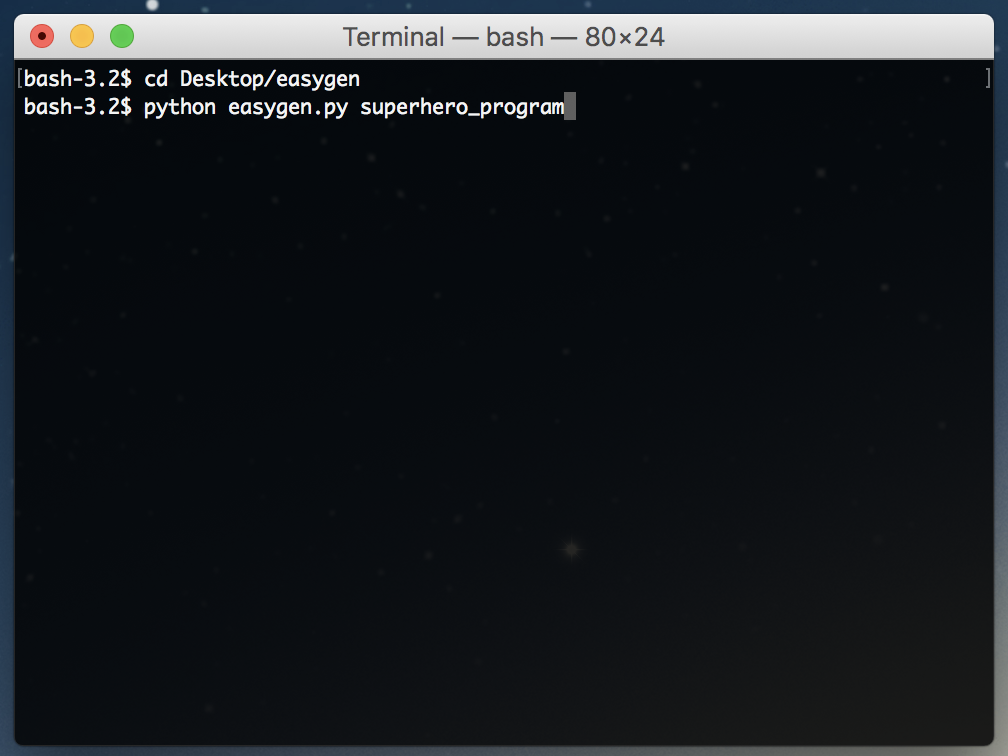
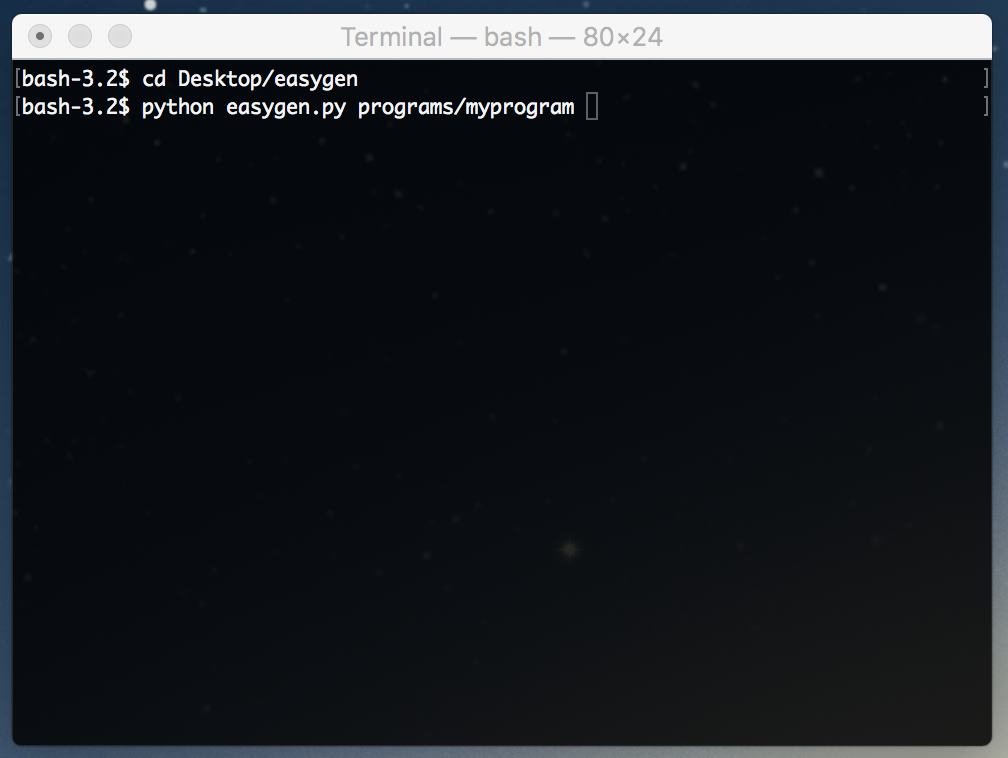
updated tutorial with easier save

Changed region(s): [[0.0, 0.0, 1.0, 1.0]]

diff --git a/editor.html b/editor.html
@@ -733,7 +733,7 @@
                //   s = s + JSON.stringify(val);
                //}
                s = "[" + s + "]";
-               alert(s);
+               //alert(s);
                var filename = prompt("Filename:", 'programs/myprogram');
                xhttp.open("POST", "http://localhost:8000?"+'file='+filename+'&program='+s, true);
                xhttp.send();

diff --git a/README.md b/README.md
@@ -96,17 +96,33 @@ If you will be pulling data from Wikipedia, you must do the following:
 
 # Tutorial
 
+First, you will need to run the easygen server. 
+
+1. Open a terminal window. Depending on your computer's operating system, this will be done in different ways. On my computer, the terminal screen looks like this:
+
+![alt text](https://raw.githubusercontent.com/markriedl/easygen/master/web/step0.png "Terminal window")
+
+2. Change directory to where you saved EasyGen
+
+   We need to change the working directory of the terminal window to the directory where you installed EasyGen. On my computer it is in the "easygen" directory on my Desktop, so I would do this `cd Desktop/easygen`. (The `cd` means change directory).
+
+3. Run the server.
+
+   Type `python easygen.py superhero_program` into the terminal and press Enter. See the image above for what it should look like when you are done.
+
+Now, you are ready to use the visual editor.
+
 ## Using the Editor
 
-First, open editor.html in a web browser. Typically you can just double-click on editor.html and it will open in your default browser.
-
-![alt text](https://raw.githubusercontent.com/markriedl/easygen/master/web/step1.png "Empty editor")
+First, open editor.html in a web browser. You will find the file in the directory where you saved EasyGen. Typically you can just double-click on editor.html and it will open in your default browser.
 
 You will see a row of numbers across the top of the browser window. Mouse over them. When you do so, they will highlight green empty boxes. These are *columns*. They are where we will put stuff. They will help us keep things organized, although it doesn't matter where things are put.
 
+![alt text](https://raw.githubusercontent.com/markriedl/easygen/master/web/step1.png "Empty editor")
+
 Right-click on the "1". You will see a menu appear. The menu items are *modules*. Modules are chunks of code that you can arrange into a program.
 
-Pick *ReadTextFile*. You will see a box appear in the first column called "ReadTextFile1". You have indicated that you want this module in your program. Click on the plus sign in the corner of the module. Now you should see that the module has gotten bigger and has some more boxes inside. Like this:
+Pick *ReadTextFile*. You will see a box appear in the first column under the "1" called "ReadTextFile1". You have indicated that you want this module in your program. Click on the plus sign in the corner of the module. Now you should see that the module has gotten bigger and has some more boxes inside. Like this:
 
 ![alt text](https://raw.githubusercontent.com/markriedl/easygen/master/web/step2.png "Editor with one module")
 
@@ -144,27 +160,16 @@ If you make a mistake and need to start over, you can just refresh the browser.
 
 ## Running EasyGen Programs
 
-Unfortunately, at this stage of development of EasyGen, I have not implemented an easy way to run programs designed in the editor. Sorry :-(
+Push the "Done" button in the editor. You will see a pop-up box that asks you for a filename. The editor is going to write the code for your program to a file. The default is "programs/myprogram". You can use this or change the name to whatever you want. Once you click "ok" a new file will be created. If you used the default, you should see that a new file has been created in the "programs" directory inside the "easygen" directory.
 
-Push the "Done" button in the editor. You will see a pop-up box with a bunch of code-like jibberish. That is a text-version of the program you just designed. It is in a special format called a "JSON" file. But that isn't important.
-
-![alt text](https://raw.githubusercontent.com/markriedl/easygen/master/web/step7.png "JSON text")
-
-Open up a text editor program. On a Mac, I use a program called "TextEdit".
-
-Cut and paste the JSON jibberish from the editor pop-up window into a blank document in your text editor. Save the text file as `superhero_program`. Be sure to save it in the EasyGen directory so it is easy to find later (note that your text editor may default to saving the file to `superhero_program.txt`. That is okay, just substitute that filename in subsequent steps in this tutorial.)
-
-Now you are going to need to open a terminal window. Depending on your computer's operating system, this will be done in different ways. On my computer, the terminal screen looks like this:
-
-![alt text](https://raw.githubusercontent.com/markriedl/easygen/master/web/step8.png "A terminal window")
-
-We need to change the working directory of the terminal window to the directory where you installed EasyGen. On my computer it is in the "EasyGen" directory on my Desktop, so I would do this `cd Desktop/easygen/`. (The `cd` means change directory).
+Now you are going to need to open another terminal window and change directory to the place where you saved EasyGen. 
 
 Now to finally run your program: type `python easygen.py superhero_program` into the terminal and press Enter.
 
 ![alt text](https://raw.githubusercontent.com/markriedl/easygen/master/web/step9.png "A terminal ready to run")
 
-A bunch of text will be printed to the terminal. You can ignore that. Once the program is done, you can verify that it worked. A new file should have been created called "randomized_superheroes". Open it up and look at it. You can compare it to the original "superheroes" file in the "datasets" directory. They should be different.
+
+A bunch of text will be printed to the terminal. You can ignore that. Once the program is done, you can verify that it worked. A new file should have been created called "randomized_superheroes". Open it up and look at it. You can compare it to the original "superheroes" file in the "datasets" directory. They should have the same name, but on different lines.
 
 ## Train a Neural Network
 
